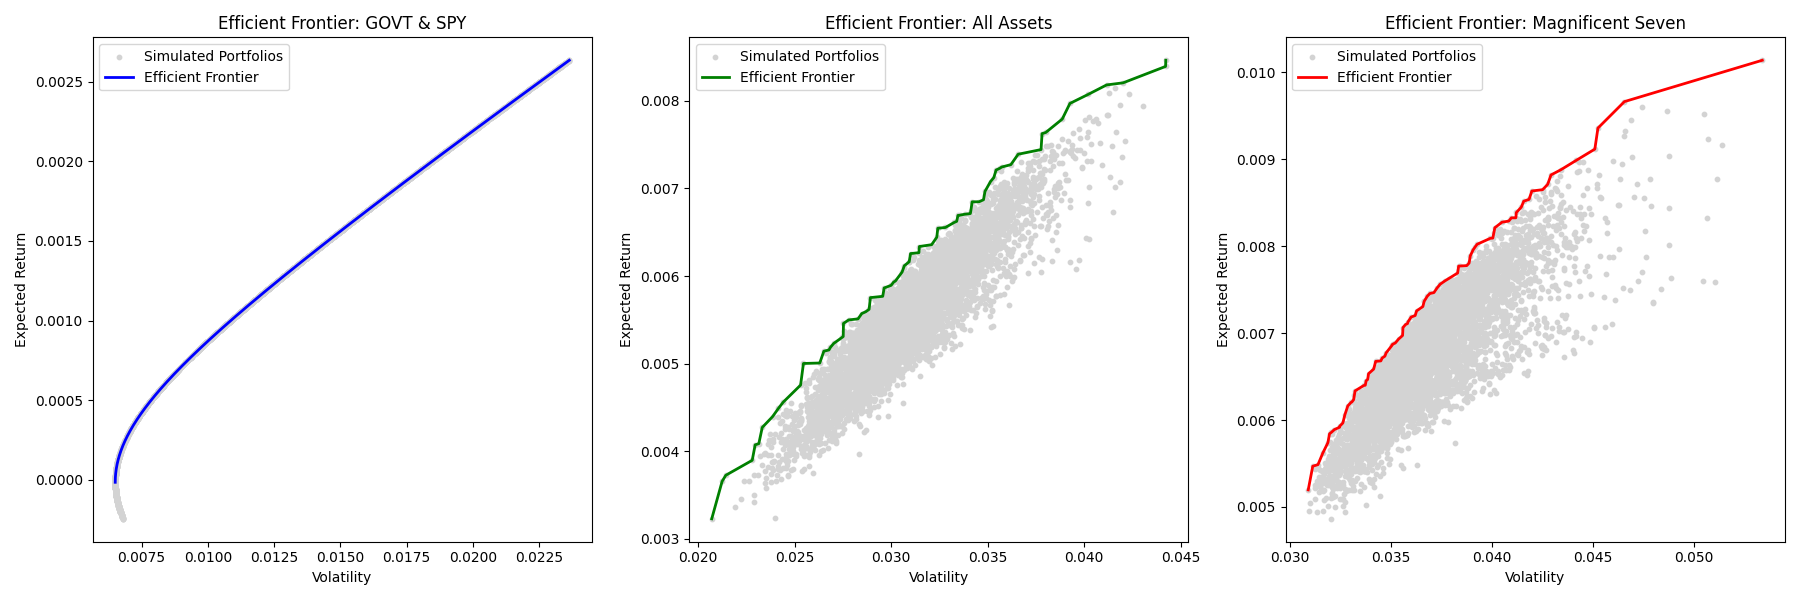
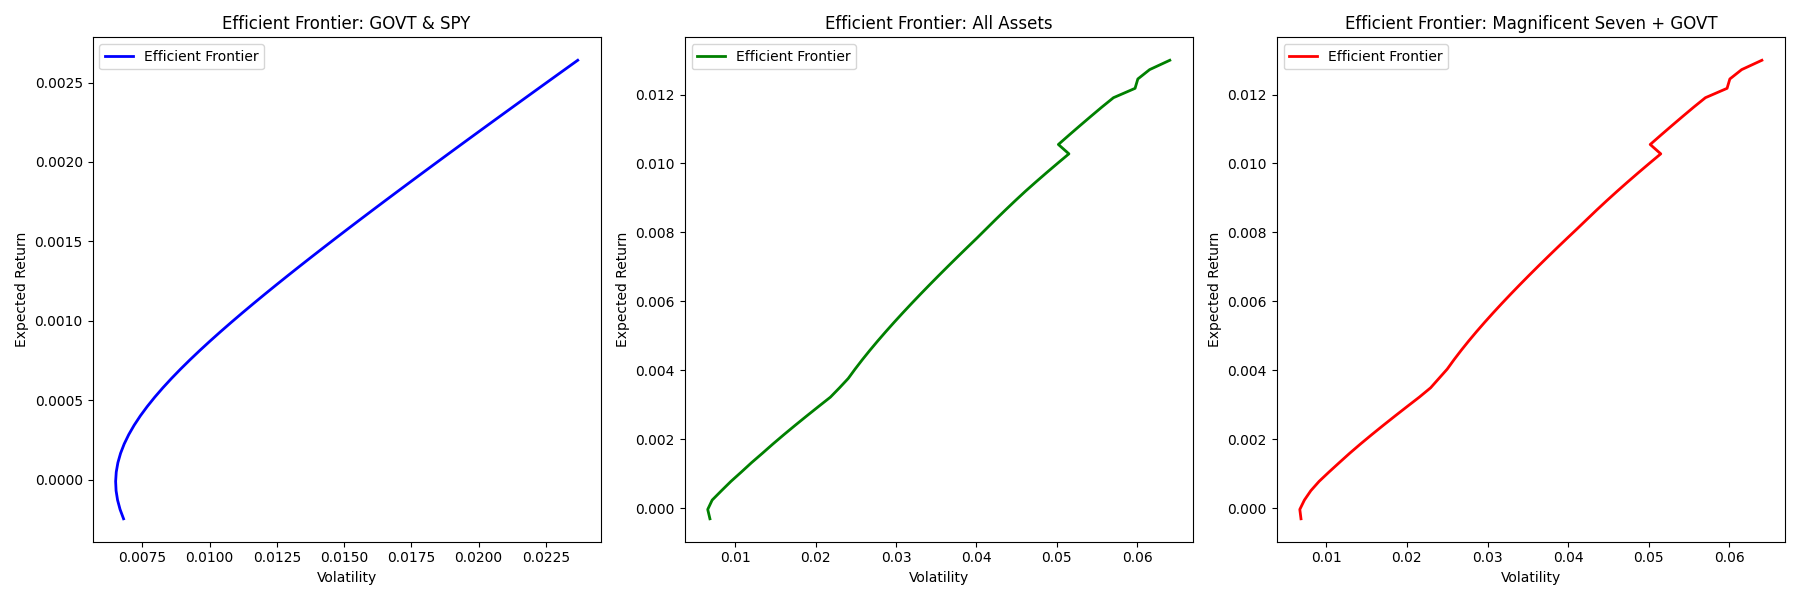
Solved issue with efficient frontier

diff --git a/EfficientFrontier.py b/EfficientFrontier.py
@@ -2,53 +2,71 @@ import os
 import numpy as np
 import pandas as pd
 import matplotlib.pyplot as plt
+from scipy.optimize import minimize
 
 # Helper Functions for Portfolio Simulation and Frontier Computation
 
-
-def simulate_portfolios(mean_returns, cov_matrix, num_portfolios=5000):
+def efficient_frontier_quad_prog(mean_returns, cov_matrix, num_points=50):
     """
-    Randomly simulate a number of portfolios and return arrays of portfolio volatility,
-    expected return, and Sharpe ratio (assuming risk-free rate = 0).
+    Compute the efficient frontier using quadratic programming via scipy.optimize.minimize.
+    For a given set of expected returns and covariance matrix, solve:
+    
+       minimize   0.5 * x.T * cov_matrix * x
+       subject to sum(x) == 1,
+                  x.T * mean_returns == target_return,
+                  x_i >= 0  for all i.
+    
+    The function varies the target_return over a specified range.
+    
+    Returns:
+      frontier_vol: Numpy array of portfolio volatilities along the frontier.
+      frontier_ret: Numpy array of portfolio returns along the frontier.
+      weights_list: List of optimal weight vectors for each target.
     """
     n = len(mean_returns)
-    results = np.zeros((3, num_portfolios))
-    weights_record = []
-    for i in range(num_portfolios):
-        weights = np.random.random(n)
-        weights /= np.sum(weights)
-        weights_record.append(weights)
-        port_return = np.sum(mean_returns * weights)
-        port_vol = np.sqrt(np.dot(weights.T, np.dot(cov_matrix, weights)))
-        results[0, i] = port_vol
-        results[1, i] = port_return
-        results[2, i] = (
-            port_return / port_vol
-        )  # Sharpe ratio (risk-free rate assumed 0)
-    return results, weights_record
-
-
-def compute_efficient_frontier(results):
-    """
-    From simulation results (volatilities and returns), compute the efficient frontier
-    as the envelope of portfolios with highest returns at each level of risk.
-    """
-    vol = results[0]
-    ret = results[1]
-    sorted_idx = np.argsort(vol)
-    vol_sorted = vol[sorted_idx]
-    ret_sorted = ret[sorted_idx]
-
+    
+    # Objective function: portfolio variance (note: we use 0.5 * variance)
+    def objective(x):
+        return 0.5 * np.dot(x, np.dot(cov_matrix, x))
+    
+    # Its gradient
+    def objective_grad(x):
+        return np.dot(cov_matrix, x)
+    
+    # Common equality constraint: sum(x)=1.
+    constraints = [{"type": "eq", "fun": lambda x: np.sum(x) - 1.0}]
+    # Bounds: no short sales allowed.
+    bounds = [(0, 1) for _ in range(n)]
+    
+    # Define a range of target returns.
+    r_min = np.min(mean_returns)
+    r_max = np.max(mean_returns)
+    target_returns = np.linspace(r_min, r_max, num_points)
+    
     frontier_vol = []
     frontier_ret = []
-    current_max = -np.inf
-    for v, r in zip(vol_sorted, ret_sorted):
-        if r > current_max:
-            current_max = r
-            frontier_vol.append(v)
-            frontier_ret.append(r)
-    return np.array(frontier_vol), np.array(frontier_ret)
-
+    weights_list = []
+    
+    for r_target in target_returns:
+        # Add the target return equality constraint.
+        cons = constraints + [
+            {"type": "eq", "fun": lambda x, r_target=r_target: np.dot(x, mean_returns) - r_target}
+        ]
+        # Initial guess: equal weight.
+        x0 = np.ones(n) / n
+        res = minimize(objective, x0, method="SLSQP", jac=objective_grad,
+                       bounds=bounds, constraints=cons)
+        if not res.success:
+            # Optionally, one could try another initial guess or increase iterations.
+            print(f"Optimization failed for target return {r_target:.4f}: {res.message}")
+            continue
+        x_opt = res.x
+        port_return = np.dot(x_opt, mean_returns)
+        port_vol = np.sqrt(np.dot(x_opt, np.dot(cov_matrix, x_opt)))
+        frontier_vol.append(port_vol)
+        frontier_ret.append(port_return)
+        weights_list.append(x_opt)
+    return np.array(frontier_vol), np.array(frontier_ret), weights_list
 
 # Data Loading and Return Computation
 
@@ -96,24 +114,27 @@ def get_returns(asset_list, assets_dict):
 set1 = ["GOVT", "SPY"]
 # All assets named
 set2 = ["GOVT", "SPY", "MSFT", "AMZN", "META", "AAPL", "GOOG", "NVDA", "TSLA"]
-# The Magnificent 7
-set3 = ["MSFT", "AMZN", "META", "AAPL", "GOOG", "NVDA", "TSLA"]
+# The Magnificent 7 + GOVT
+set3 = ["GOVT", "MSFT", "AMZN", "META", "AAPL", "GOOG", "NVDA", "TSLA"]
 
 
 # Compute Efficient Frontier for a given asset set
-def get_frontier_for_set(asset_set, assets_dict, num_portfolios=5000):
+def get_frontier_for_set(asset_set, assets_dict, num_points=50):
     """
-    For the given list of asset tickers, compute the mean daily return and covariance matrix
-    from their common return series, simulate random portfolios, and compute the efficient frontier.
-    Returns: (frontier_volatilities, frontier_returns, all_results)
+    For a given list of asset tickers, compute the common return series,
+    determine the mean returns and covariance matrix, and then compute
+    the efficient frontier using quadratic programming.
+    
+    Returns:
+      frontier_vol: portfolio volatilities along the frontier.
+      frontier_ret: portfolio returns along the frontier.
+      weights_list: list of weight vectors (one for each frontier point).
     """
     returns_df = get_returns(asset_set, assets_dict)
     mean_returns = returns_df.mean().values
     cov_matrix = returns_df.cov().values
-
-    results, _ = simulate_portfolios(mean_returns, cov_matrix, num_portfolios)
-    frontier_vol, frontier_ret = compute_efficient_frontier(results)
-    return frontier_vol, frontier_ret, results
+    frontier_vol, frontier_ret, weights_list = efficient_frontier_quad_prog(mean_returns, cov_matrix, num_points)
+    return frontier_vol, frontier_ret, weights_list
 
 
 # Plotting: Create side-by-side plots for the three efficient frontiers
@@ -125,10 +146,7 @@ os.makedirs(results_dir, exist_ok=True)
 fig, axes = plt.subplots(1, 3, figsize=(18, 6))
 
 # Frontier for GOVT and SPY
-front_vol1, front_ret1, results1 = get_frontier_for_set(set1, assets)
-axes[0].scatter(
-    results1[0, :], results1[1, :], c="lightgray", s=10, label="Simulated Portfolios"
-)
+front_vol1, front_ret1, _ = get_frontier_for_set(set1, assets)
 axes[0].plot(front_vol1, front_ret1, color="blue", lw=2, label="Efficient Frontier")
 axes[0].set_title("Efficient Frontier: GOVT & SPY")
 axes[0].set_xlabel("Volatility")
@@ -136,10 +154,7 @@ axes[0].set_ylabel("Expected Return")
 axes[0].legend()
 
 # Frontier for all assets
-front_vol2, front_ret2, results2 = get_frontier_for_set(set2, assets)
-axes[1].scatter(
-    results2[0, :], results2[1, :], c="lightgray", s=10, label="Simulated Portfolios"
-)
+front_vol2, front_ret2, _ = get_frontier_for_set(set2, assets)
 axes[1].plot(front_vol2, front_ret2, color="green", lw=2, label="Efficient Frontier")
 axes[1].set_title("Efficient Frontier: All Assets")
 axes[1].set_xlabel("Volatility")
@@ -147,19 +162,16 @@ axes[1].set_ylabel("Expected Return")
 axes[1].legend()
 
 # Frontier for Magnificent 7
-front_vol3, front_ret3, results3 = get_frontier_for_set(set3, assets)
-axes[2].scatter(
-    results3[0, :], results3[1, :], c="lightgray", s=10, label="Simulated Portfolios"
-)
+front_vol3, front_ret3, _ = get_frontier_for_set(set3, assets)
 axes[2].plot(front_vol3, front_ret3, color="red", lw=2, label="Efficient Frontier")
-axes[2].set_title("Efficient Frontier: Magnificent Seven")
+axes[2].set_title("Efficient Frontier: Magnificent Seven + GOVT")
 axes[2].set_xlabel("Volatility")
 axes[2].set_ylabel("Expected Return")
 axes[2].legend()
 
 plt.tight_layout()
 
-# Save the figure
+# Save the figure.
 save_path = os.path.join(results_dir, "efficient_frontiers.png")
 plt.savefig(save_path)
 plt.show()
